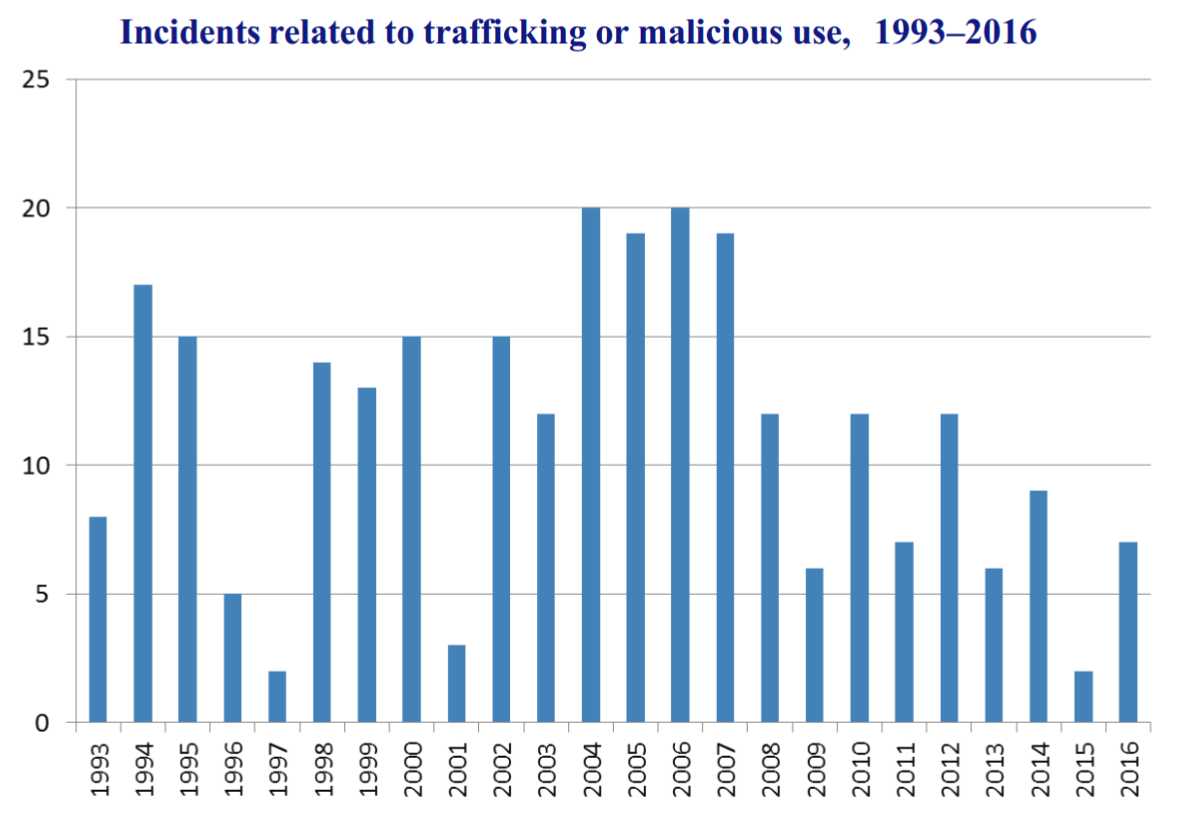
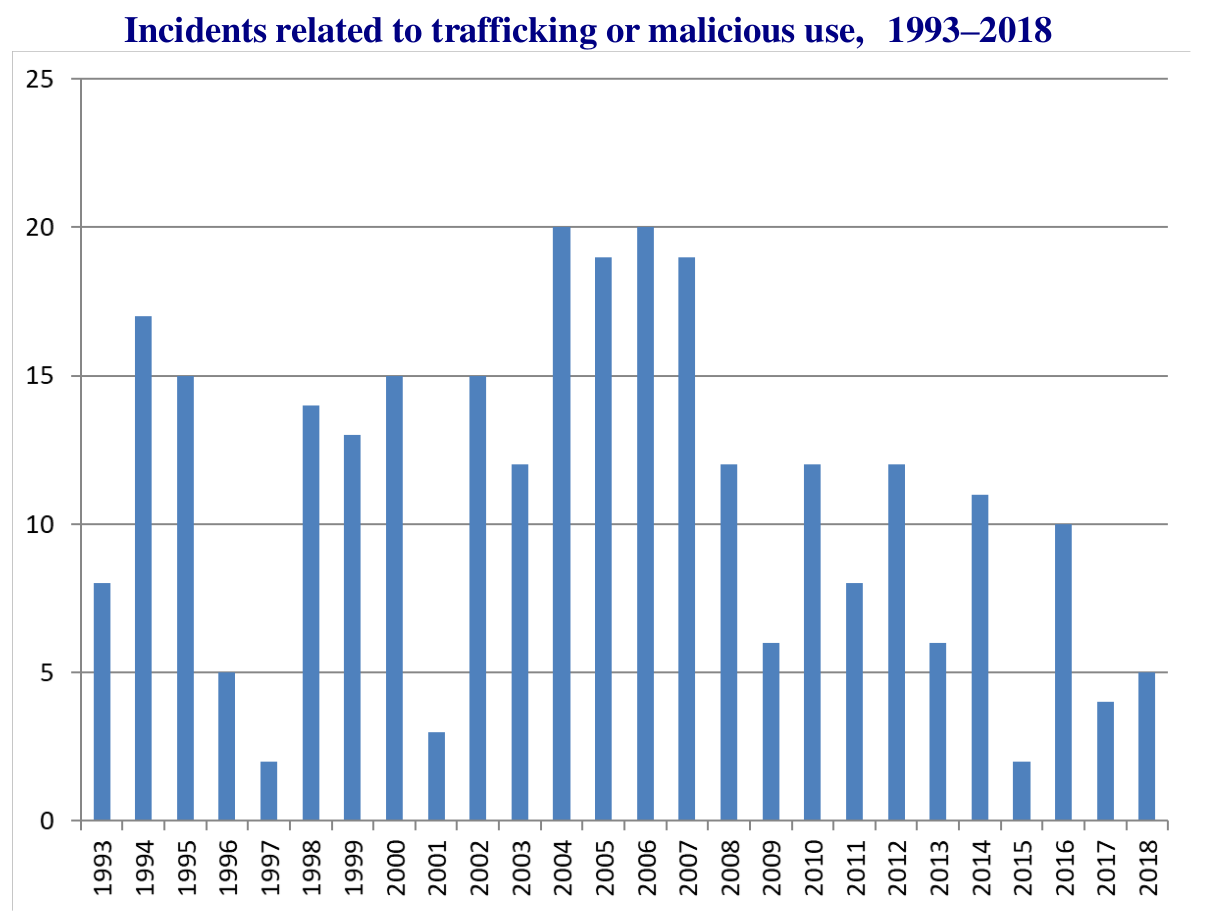
updating trafficking plot

Changed region(s): [[0.0, 0.0612, 0.9606, 0.9792], [0.093, 0.0, 0.8987, 0.0918]]

diff --git a/presentation/motivation.tex b/presentation/motivation.tex
@@ -4,9 +4,7 @@
     \begin{figure}
       \centering
       \includegraphics[width=\textwidth]{./figures/nucleartrafficking.png}
-      \caption{24 years of incidents: HEU (12), Pu (2), Pu-Be neutron sources (4)
-               \tiny [Obtained from:
-               \url{https://www.iaea.org/sites/default/files/17/12/itdb-factsheet-2017.pdf}]}
+      \caption{25 years of incidents related to malicious use: HEU (12), Pu (2), Pu-Be neutron sources (4)\cite{itdb}}
     \end{figure}
   \end{minipage}%
   \begin{minipage}{0.4\textwidth}
